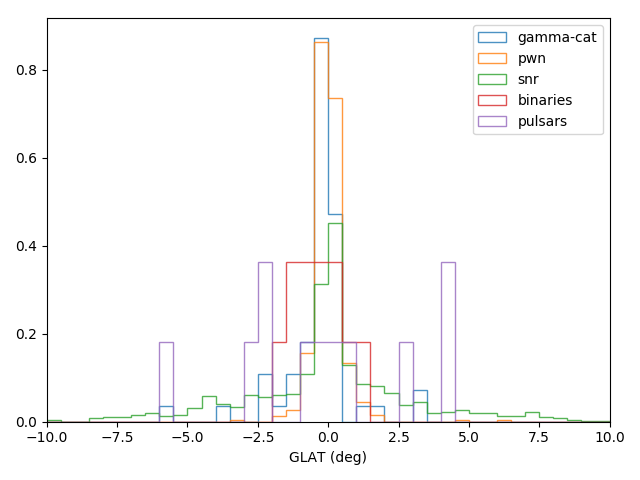
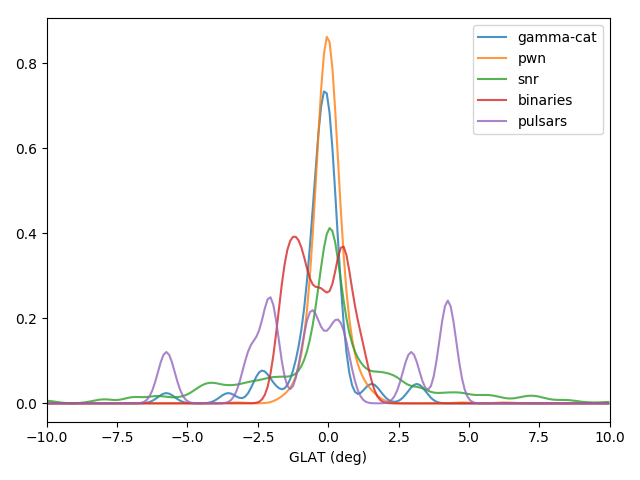
update

diff --git a/sky_model_checks/source_parameter_distributions.py b/sky_model_checks/source_parameter_distributions.py
@@ -21,6 +21,81 @@ from gammapy.spectrum import CrabSpectrum
 log = logging.getLogger(__name__)
 
 
+class Histogram:
+    """
+    Helper class to work with 1-dim histograms.
+    
+    Splits histogram computation from plotting,
+    and introduces some conveniences.
+    """
+
+    def __init__(self, bins, vals):
+        self.bins = bins
+        self.vals = vals
+
+    @classmethod
+    def from_points(cls, bins, points):
+        vals = np.histogram(points, bins=bins)[0]
+        return cls(bins=bins, vals=vals)
+
+    @property
+    def bin_centers(self):
+        return 0.5 * (self.bins[:-1] + self.bins[1:])
+
+    def smooth(self, sigma=1):
+        vals = gaussian_filter1d(self.vals.astype(float), sigma=sigma)
+        return self.__class__(bins=self.bins, vals=vals)
+
+    def normalise(self, method='max', value=1):
+        if method == 'max':
+            scale = float(value) / np.max(self.vals)
+        elif method == 'int':
+            integral = np.sum(self.vals * np.diff(self.bins))
+            scale = float(value) / integral
+        elif method == 'int log':
+            integral = np.sum(self.vals * np.diff(np.log10(self.bins)))
+            scale = float(value) / integral
+        else:
+            raise ValueError('Invalid method: {}'.format(method))
+
+        return self.__class__(bins=self.bins, vals=scale * self.vals)
+
+    def plot_hist(self, ax, **kwargs):
+        """Plot a pre-binned histogram"""
+        bins = self.bins
+        vals = self.vals
+        # Plotting a histogram nicely ourselves is nontrivial
+        # Example from http://stackoverflow.com/a/18611135/498873
+        left, right, width = bins[:-1], bins[1:], np.diff(bins)
+        x = np.array([left, right]).T.flatten()
+        y = np.array([vals, vals]).T.flatten()
+        ax.plot(x, y, **kwargs)
+        # ax.bar(
+        #     left=left, height=hist, width=width,
+        #     label=component['tag'], alpha=0.7,
+        #     align='edge', color='none',
+        # )
+
+    def plot_smooth(self, ax, **kwargs):
+        x = self.bin_centers
+        y = self.vals
+        ax.plot(x, y, **kwargs)
+
+
+class HistogramStack:
+    def __init__(self, hists=None):
+        self.hists = hists if hists else []
+
+    def add(self, hist):
+        self.hists.append(hist)
+
+    @property
+    def total(self):
+        bins = self.hists[0].bins
+        vals = np.vstack([h.vals for h in self.hists]).sum(axis=0)
+        return Histogram(bins=bins, vals=vals)
+
+
 def make_source_tables():
     log.info('Starting make_source_tables')
     parts = [
@@ -242,13 +317,15 @@ class GPSSkyModel:
 
     def plot_glon_distribution(self):
         fig, ax = plt.subplots()
-        bins = np.arange(-180, 181, 5)
+        bins = np.arange(-180, 181, 1)
         for component in self.get_components(skip=['image_sources']):
             table = component['table']
-            vals = Angle(table['glon'], 'deg').wrap_at('180d').deg
-            ax.hist(
-                vals, bins=bins, label=component['tag'], histtype='step',
-                alpha=0.8, normed=True,
+            points = Angle(table['glon'], 'deg').wrap_at('180d').deg
+            hist = Histogram.from_points(bins=bins, points=points)
+            hist = hist.normalise(method='int', value=1)
+            hist = hist.smooth(sigma=3)
+            hist.plot_smooth(
+                ax=ax, label=component['tag'], alpha=0.8,
             )
 
         ax.legend(loc='best')
@@ -261,13 +338,15 @@ class GPSSkyModel:
 
     def plot_glat_distribution(self):
         fig, ax = plt.subplots()
-        bins = np.arange(-10, 10.1, 0.5)
+        bins = np.arange(-10, 10.1, 0.1)
         for component in self.get_components(skip=['image_sources']):
             table = component['table']
-            vals = Angle(table['glat'], 'deg').deg
-            ax.hist(
-                vals, bins=bins, label=component['tag'], histtype='step',
-                alpha=0.8, normed=True,
+            points = Angle(table['glat'], 'deg').deg
+            hist = Histogram.from_points(bins=bins, points=points)
+            hist = hist.smooth(sigma=3)
+            hist = hist.normalise(method='int', value=1)
+            hist.plot_smooth(
+                ax=ax, label=component['tag'], alpha=0.8,
             )
 
         ax.legend(loc='best')
@@ -422,38 +501,34 @@ class GPSSkyModel:
         fig.savefig(filename)
 
     def plot_logn_logs(self):
-        fig, ax = plt.subplots(figsize=(15, 5))
+        fig, ax = plt.subplots()
 
         crab_1_10 = CrabSpectrum().model.integral(1 * u.TeV, 10 * u.TeV).to('cm-2 s-1').value
-        bins = np.logspace(-10, 4, 200)
-        left, right, width = bins[:-1], bins[1:], np.diff(bins)
+        bins = np.logspace(-9, 1, 200)
 
+        hists = []
         for component in self.get_components():
             table = component['table']
-            flux = table['flux_1_10'] / crab_1_10
-            hist = np.histogram(flux, bins=bins)[0]
-            hist = gaussian_filter1d(hist.astype(float), sigma=2)
-            hist = hist / np.max(hist)
+            points = table['flux_1_10'] / crab_1_10
+            hist = Histogram.from_points(bins=bins, points=points)
+            hist = hist.smooth(sigma=3)
+            # hist = hist.normalise(method='int log', value=1)
+            hist.plot_smooth(ax, label=component['tag'], alpha=0.8, lw=2)
+            hists.append(hist)
 
-            # Plotting a histogram nicely ourselves is nontrivial
-            # Example from http://stackoverflow.com/a/18611135/498873
-            x = np.array([left, right]).T.flatten()
-            y = np.array([hist, hist]).T.flatten()
+        hists = HistogramStack(hists)
+        hists.total.plot_smooth(ax, label='total', alpha=0.8, lw=2)
 
-            ax.plot(x, y, label=component['tag'], alpha=0.8, lw=2)
-
-            # ax.bar(
-            #     left=left, height=hist, width=width,
-            #     label=component['tag'], alpha=0.7,
-            #     align='edge', color='none',
-            # )
-
-        # import IPython; IPython.embed(); 1/0
         ax.set_xlabel('Integral flux 1-10 TeV (% Crab)')
         ax.semilogx()
         ax.legend(loc='best')
         fig.tight_layout()
         filename = 'ctadc_skymodel_gps_sources_logn_logs_diff.png'
+        log.info('Writing {}'.format(filename))
+        fig.savefig(filename)
+
+        ax.loglog()
+        filename = 'ctadc_skymodel_gps_sources_logn_logs_diff_logscale.png'
         log.info('Writing {}'.format(filename))
         fig.savefig(filename)
 
@@ -523,18 +598,18 @@ if __name__ == '__main__':
     # gps.print_summary()
 
     # gps.plot_sky_positions()
-    # gps.plot_glon_distribution()
-    # gps.plot_glat_distribution()
+    gps.plot_glon_distribution()
+    gps.plot_glat_distribution()
 
     # gps.plot_size_distribution()
     # gps.plot_physical_size_distribution()
 
-    gps.check_snr_size_distribution()
+    # gps.check_snr_size_distribution()
 
     # gps.plot_galactic_xy()
     # gps.plot_galactic_xz()
     # gps.plot_galactic_z()
     # gps.plot_galactic_r()
 
-    # gps.plot_logn_logs()
+    gps.plot_logn_logs()
     # gps.plot_all_spectral_models()

diff --git a/sky_model_checks/README.md b/sky_model_checks/README.md
@@ -22,7 +22,7 @@ image_sources        11 6.27654769846e-11
   * [ctadc_skymodel_gps_sources_sky_positions_gps.png](ctadc_skymodel_gps_sources_sky_positions_gps.png)
   * GLON: [ctadc_skymodel_gps_sources_glon.png](ctadc_skymodel_gps_sources_glon.png)
   * GLAT: [ctadc_skymodel_gps_sources_glat.png](ctadc_skymodel_gps_sources_glat.png)
-  * Distance: TODO
+  * Distance: [ctadc_skymodel_gps_sources_distance.png](ctadc_skymodel_gps_sources_distance.png)
 
 * Positions in the Galaxy (only for simulated sources: PWN, SNR):
   * [ctadc_skymodel_gps_sources_galactic_xy.png](ctadc_skymodel_gps_sources_galactic_xy.png)
@@ -44,7 +44,8 @@ image_sources        11 6.27654769846e-11
   * There is no bug. The fact that there are only few SNRs with small angular size is a result
     of Pierre's model, which contains very few SNRs with small physical size, i.e. below 10 pc.
 * logN-logS: [logN_logS_gammalib.png](logN_logS_gammalib.png)
-  * Differential (max at 1, smoothed a bit): [ctadc_skymodel_gps_sources_logn_logs_diff.png](ctadc_skymodel_gps_sources_logn_logs_diff.png)
+  * Differential (linear in y-axis): [ctadc_skymodel_gps_sources_logn_logs_diff.png](ctadc_skymodel_gps_sources_logn_logs_diff.png)
+  * Differential (log in y-axis): [ctadc_skymodel_gps_sources_logn_logs_diff_logscale.png](ctadc_skymodel_gps_sources_logn_logs_diff_logscale.png)
   * Integral: todo
 * Source size vs flux
 
